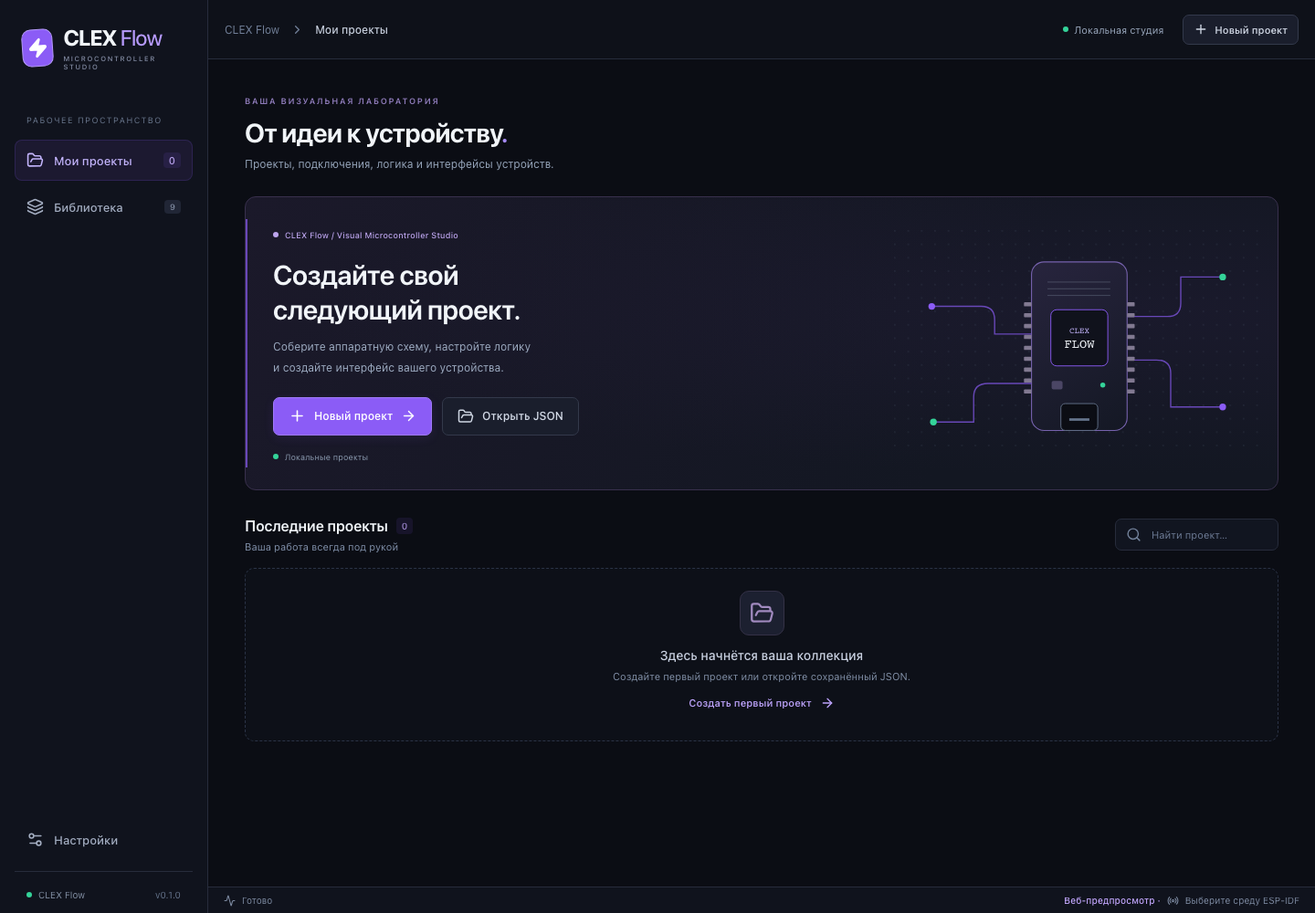
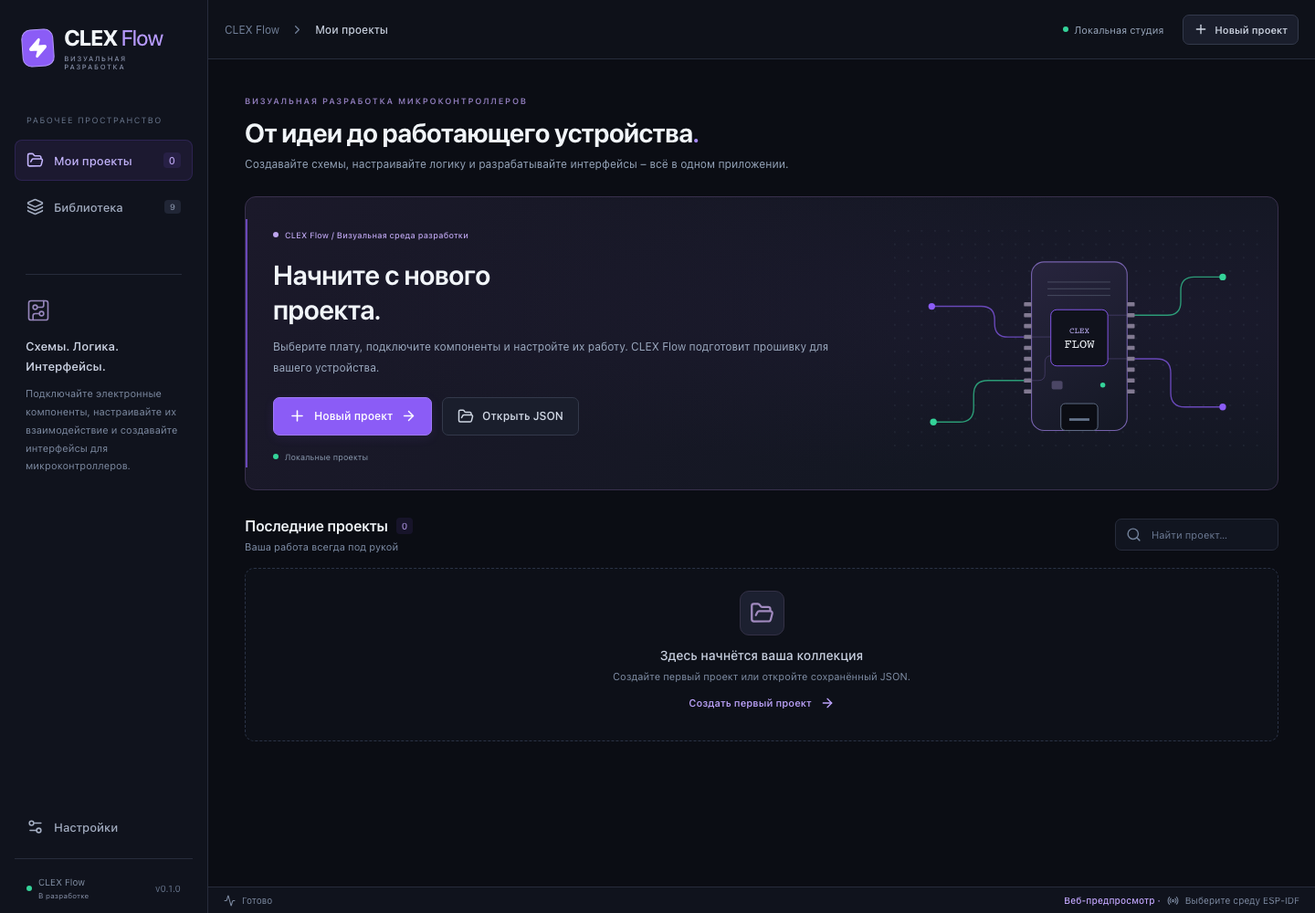
Polish Russian interface and prepare the first prerelease

diff --git a/src/screens/Workspace.jsx b/src/screens/Workspace.jsx
@@ -1,5 +1,5 @@
 import { lazy, Suspense, useCallback, useEffect, useState } from 'react';
-import { CircuitBoard, Layers, Settings2, Terminal, Download, Save, TriangleAlert, CheckCircle2, Cpu, Info } from 'lucide-react';
+import { CircuitBoard, Layers, Settings2, Terminal, Download, TriangleAlert, CheckCircle2, Cpu, Info } from 'lucide-react';
 import ResizeHandle from '../components/ResizeHandle.jsx';
 import Modal from '../components/Modal.jsx';
 import HardwareLibrary from '../assembly/HardwareLibrary.jsx';
@@ -17,7 +17,7 @@ import { addNode, updateNode, connectNodes, removeElements, selectionSnapshot, p
 import { catalog, boards, hardwareModules, logicModules, getBoard } from '../catalog/index.js';
 import { addHardware, connectTerminal, disconnectTerminal, removeWire, removeHardware, selectBoard, validateAssembly } from '../assembly/model.js';
 
-export default function Workspace({ project, setProject, dirty, busy, onSave, onExport, onLogicChange, onInteraction, autoSaveEnabled, autoState, idf, onPreview }) {
+export default function Workspace({ project, setProject, dirty, busy, onExport, onLogicChange, onInteraction, autoSaveEnabled, autoState, idf, onPreview }) {
   const [tab, setTab] = useState('overview');
   const [editingScreen, setEditingScreen] = useState(null);
   const closeScreen = useCallback(() => setEditingScreen(null), []);
@@ -116,11 +116,11 @@ export default function Workspace({ project, setProject, dirty, busy, onSave, on
     <div className="workspace-body" style={{ gridTemplateColumns: tab === 'overview' ? `minmax(250px, 1fr) 5px ${right}px` : `${left}px 5px minmax(250px, 1fr) 5px ${right}px`, gridTemplateRows: `minmax(280px, 1fr) 5px ${bottom}px` }}>
       {tab !== 'overview' && <aside className="workspace-library">{tab === 'logic' ? <LogicLibrary modules={logicModules} busy={busy} onAdd={addLogic} /> : <HardwareLibrary boards={boards} modules={hardwareModules} board={board} busy={busy} onBoard={switchBoard} onAdd={add} />}</aside>}
       {tab !== 'overview' && <ResizeHandle label="Ширина библиотеки" onResize={delta => setLeft(v => Math.max(180, Math.min(300, v + delta)))} />}
-      {tab === 'logic' ? <Suspense fallback={<main className="logic-loading"><Layers size={30} /><span>Открываем редактор логики…</span></main>}><LogicCanvas onOpenScreen={openScreen} project={project} onInteraction={onInteraction} catalog={catalog} history={{ ...history, undo: undoLogic, redo: redoLogic }} selection={logicSelection} setSelection={setLogicSelection} pending={logicPending} onPort={logicPort} onConnect={connectLogic} error={logicError} setError={setLogicError} busy={busy} clipboard={clipboard} onCopy={copyLogic} onPaste={() => pasteLogic(clipboard)} onDuplicate={duplicateLogic} onRemove={removeLogic} issues={graphIssues} /></Suspense> : tab === 'assembly' ? <main className="assembly-region">{board?.pins.length ? <Suspense fallback={<div className="logic-loading"><CircuitBoard size={30} /><span>Открываем монтаж…</span></div>}><AssemblyCanvas onInteraction={onInteraction} key={project.boardId} project={project} board={board} catalog={catalog} selection={selection} setSelection={setSelection} pending={pending} setPending={setPending} onTerminal={terminalClick} onPin={pinClick} onConnect={connect} onError={setError} onTransform={updateAssemblyTransform} busy={busy} /></Suspense> : <div className="assembly-choose-board"><Cpu size={44} /><h2>Выберите конкретную плату</h2><p>Выберите модель платы с описанными контактами в каталоге слева.</p></div>}{error && <div className="wiring-error" role="alert"><TriangleAlert size={15} /><span>{error}</span><button className="text-button" onClick={() => setError('')}>Закрыть</button></div>}<div className={`assembly-validation ${assemblyErrors.length ? 'has-errors' : ''}`}><span>{assemblyErrors.length ? <TriangleAlert size={14} /> : <CheckCircle2 size={14} />}{assemblyErrors.length ? `Ошибок: ${assemblyErrors.length}` : 'Ошибок монтажа нет'}</span><span>Предупреждений: {assemblyWarnings.length}</span><span>{board?.pinoutVerified ? 'Профиль по документации' : 'Ревизия не подтверждена'}</span></div></main> : <main className="project-overview"><div className="overview-topline"><span className="badge purple">ОБЗОР ПРОЕКТА</span><span className={`save-indicator ${dirty ? 'unsaved' : ''}`}><span className="dot" />{dirty ? 'Есть изменения' : 'Сохранён'}</span></div><div className="overview-center"><h1>{project.name}</h1><p>{project.description || 'Плата, подключения, логика и интерфейсы вашего устройства.'}</p><div className="overview-stats"><div><strong>{project.components.length}</strong><span>компонентов</span></div><div><strong>{project.logic.nodes.length}</strong><span>блоков логики</span></div><div><strong>{board?.name || 'Неизвестная плата'}</strong><span>выбранная плата</span></div></div><button className="next-stage open-assembly" onClick={() => setTab('assembly')}><div><strong>Открыть монтаж</strong><p>Плата, физические контакты, подключения и проверка GPIO.</p></div><CircuitBoard size={21} /></button><div className="button-row"><button className="button secondary" onClick={onSave} disabled={busy || !dirty}><Save size={17} />Сохранить</button><button className="text-button" onClick={onExport} disabled={busy}><Download size={17} />Экспорт JSON</button></div></div><div className="canvas-caption">Соберите схему, проверьте исходники и запустите сборку ESP-IDF.</div></main>}
+      {tab === 'logic' ? <Suspense fallback={<main className="logic-loading"><Layers size={30} /><span>Открываем редактор логики…</span></main>}><LogicCanvas onOpenScreen={openScreen} project={project} onInteraction={onInteraction} catalog={catalog} history={{ ...history, undo: undoLogic, redo: redoLogic }} selection={logicSelection} setSelection={setLogicSelection} pending={logicPending} onPort={logicPort} onConnect={connectLogic} error={logicError} setError={setLogicError} busy={busy} clipboard={clipboard} onCopy={copyLogic} onPaste={() => pasteLogic(clipboard)} onDuplicate={duplicateLogic} onRemove={removeLogic} issues={graphIssues} /></Suspense> : tab === 'assembly' ? <main className="assembly-region">{board?.pins.length ? <Suspense fallback={<div className="logic-loading"><CircuitBoard size={30} /><span>Открываем монтаж…</span></div>}><AssemblyCanvas onInteraction={onInteraction} key={project.boardId} project={project} board={board} catalog={catalog} selection={selection} setSelection={setSelection} pending={pending} setPending={setPending} onTerminal={terminalClick} onPin={pinClick} onConnect={connect} onError={setError} onTransform={updateAssemblyTransform} busy={busy} /></Suspense> : <div className="assembly-choose-board"><Cpu size={44} /><h2>Выберите конкретную плату</h2><p>Выберите модель платы с описанными контактами в каталоге слева.</p></div>}{error && <div className="wiring-error" role="alert"><TriangleAlert size={15} /><span>{error}</span><button className="text-button" onClick={() => setError('')}>Закрыть</button></div>}<div className={`assembly-validation ${assemblyErrors.length ? 'has-errors' : ''}`}><span>{assemblyErrors.length ? <TriangleAlert size={14} /> : <CheckCircle2 size={14} />}{assemblyErrors.length ? `Ошибок: ${assemblyErrors.length}` : 'Ошибок монтажа нет'}</span><span>Предупреждений: {assemblyWarnings.length}</span><span>{board?.pinoutVerified ? 'Профиль по документации' : 'Ревизия не подтверждена'}</span></div></main> : <main className="project-overview"><div className="overview-topline"><span className="badge purple">ОБЗОР ПРОЕКТА</span><span className={`save-indicator ${dirty ? 'unsaved' : ''}`}><span className="dot" />{dirty ? 'Есть изменения' : 'Сохранён'}</span></div><div className="overview-center"><h1>{project.name}</h1><p>{project.description || 'Плата, подключения, логика и интерфейсы вашего устройства.'}</p><div className="overview-stats"><div><strong>{project.components.length}</strong><span>компонентов</span></div><div><strong>{project.logic.nodes.length}</strong><span>блоков логики</span></div><div><strong>{board?.name || 'Неизвестная плата'}</strong><span>выбранная плата</span></div></div><button className="next-stage open-assembly" onClick={() => setTab('assembly')}><div><strong>Открыть монтаж</strong><p>Плата, физические контакты, подключения и проверка GPIO.</p></div><CircuitBoard size={21} /></button><div className="button-row"><button className="text-button" onClick={onExport} disabled={busy}><Download size={17} />Экспорт JSON</button></div></div><div className="canvas-caption">Соберите схему, проверьте исходники и запустите сборку ESP-IDF.</div></main>}
       <ResizeHandle label="Ширина свойств" onResize={delta => setRight(v => Math.max(240, Math.min(360, v - delta)))} />
       <aside className="workspace-properties">{tab === 'logic' ? <LogicInspector onOpenScreen={openScreen} project={project} catalog={catalog} selection={logicSelection} busy={busy} onChange={(id, patch, group) => history.change(graph => updateNode(graph, id, patch), { group })} onRemove={removeLogic} onDuplicate={duplicateLogic} issues={graphIssues} /> : tab === 'overview' ? <><div className="panel-label">СВОЙСТВА ПРОЕКТА</div><label className="field">Название<input value={project.name} maxLength={80} onChange={e => change('name', e.target.value)} disabled={busy} /></label><label className="field">Описание<textarea rows={5} value={project.description} maxLength={4000} placeholder="Описание проекта" onChange={e => change('description', e.target.value)} disabled={busy} /></label><div className="property-divider" /><div className="property-pair"><span>Плата</span><strong>{board?.name || project.boardId}</strong></div><div className="property-pair"><span>Целевой ESP-IDF</span><code>{board?.espIdfVersion}</code></div><p className="panel-note"><Info size={15} />{autoSaveEnabled ? 'Весь проект сохраняется через 10 секунд без правок. Можно сохранить сразу: «Сохранить» или ⌘/Ctrl + S.' : 'Автосохранение выключено. Сохраните проект кнопкой «Сохранить» или ⌘/Ctrl + S.'}</p></> : board ? <AssemblyInspector project={project} board={board} catalog={catalog} selection={selection} busy={busy} onConnect={connect} onDisconnect={(id, terminal) => { setProject(current => disconnectTerminal(current, catalog, id, terminal)); setPending(null); setError(''); }} onRemoveWire={id => { setProject(current => removeWire(current, catalog, id)); setSelection({ type: 'board', id: 'board' }); setError(''); }} onRemoveComponent={id => { setProject(current => removeHardware(current, catalog, id)); setSelection({ type: 'board', id: 'board' }); setPending(null); setError(''); }} onComponentChange={(id, patch) => setProject(current => ({ ...current, components: current.components.map(component => component.id === id ? { ...component, ...patch } : component) }))} onTerminalSide={(id, terminal, side) => setProject(current => ({ ...current, assembly: { ...current.assembly, portSides: { ...current.assembly.portSides, [id]: { ...current.assembly.portSides?.[id], [terminal]: side } } } }))} onBoardSetting={(key, value) => { change('boardSettings', { ...project.boardSettings, [key]: value }); setPending(null); }} /> : <p className="inspector-warning">Плата не установлена. Выберите доступную модель в каталоге.</p>}</aside>
       <div className="bottom-resize"><ResizeHandle axis="y" label="Высота журнала" onResize={delta => setBottom(v => Math.max(110, Math.min(280, v - delta)))} /></div>
-      {idf?.job ? <ProcessPanel key={idf.job.id} idf={idf} onPreview={onPreview} issues={issues} onIssue={inspectIssue} /> : <section className="workspace-log"><header><Terminal size={15} /><strong>Проверка проекта</strong><span className={`badge ${errors.length ? 'red' : 'green'}`}>{errors.length ? `${errors.length} ошибок` : 'Ошибок проекта нет'}</span></header><div className="log-row"><span className={`log-level ${dirty ? 'warning' : 'success'}`}>{dirty ? 'EDIT' : 'OK'}</span><span>{dirty ? (autoSaveEnabled ? 'Есть правки. Автосохранение через 10 секунд без изменений; «Сохранить» или ⌘/Ctrl + S сохраняет сразу.' : 'Правки ещё не сохранены. Нажмите «Сохранить» или ⌘/Ctrl + S.') : 'Текущая версия проекта сохранена.'}</span></div>{issues.map((issue, index) => <button key={`${issue.code}-${index}`} className="validation-row" onClick={() => inspectIssue(issue)}><span className={`log-level ${issue.severity === 'error' ? 'error-level' : 'warning'}`}>{issue.severity === 'error' ? 'ERR' : 'WARN'}</span><span>{issue.message}</span></button>)}{idf?.generationError && <div className="log-row"><span className="log-level warning">IDF</span><span>{idf.generationError}</span></div>}{!errors.length && <div className="log-row"><span className="log-level success">OK</span><span>Проверка монтажа и графа пройдена.</span></div>}</section>}
+      {idf?.job ? <ProcessPanel key={idf.job.id} idf={idf} onPreview={onPreview} issues={issues} onIssue={inspectIssue} /> : <section className="workspace-log"><header><Terminal size={15} /><strong>Проверка проекта</strong><span className={`badge ${errors.length ? 'red' : 'green'}`}>{errors.length ? `${errors.length} ошибок` : 'Ошибок проекта нет'}</span></header><div className="log-row"><span className={`log-level ${dirty ? 'warning' : 'success'}`}>{dirty ? 'ПРАВКИ' : 'ОК'}</span><span>{dirty ? (autoSaveEnabled ? 'Есть правки. Автосохранение через 10 секунд без изменений; «Сохранить» или ⌘/Ctrl + S сохраняет сразу.' : 'Правки ещё не сохранены. Нажмите «Сохранить» или ⌘/Ctrl + S.') : 'Текущая версия проекта сохранена.'}</span></div>{issues.map((issue, index) => <button key={`${issue.code}-${index}`} className="validation-row" onClick={() => inspectIssue(issue)}><span className={`log-level ${issue.severity === 'error' ? 'error-level' : 'warning'}`}>{issue.severity === 'error' ? 'ОШ' : 'ВНИМ'}</span><span>{issue.message}</span></button>)}{idf?.generationError && <div className="log-row"><span className="log-level warning">IDF</span><span>{idf.generationError}</span></div>}{!errors.length && <div className="log-row"><span className="log-level success">ОК</span><span>Проверка монтажа и графа пройдена.</span></div>}</section>}
     </div>
     {editingScreen && project.components.some(component => component.id === editingScreen) && <Suspense fallback={null}><ScreenEditor project={project} component={project.components.find(component => component.id === editingScreen)} catalog={catalog} busy={busy} onClose={closeScreen} onSave={(id, screen) => setProject(current => saveScreen(current, id, screen))} /></Suspense>}
     {newBoard && <Modal title="Сменить плату?" onClose={() => setNewBoard(null)} busy={busy}><p className="modal-intro">Соединения и назначения GPIO будут очищены: у новой платы другая распиновка. Компоненты и их параметры останутся в проекте.</p><footer><button className="button secondary" onClick={() => setNewBoard(null)}>Отмена</button><button className="button primary" onClick={() => applyBoard(newBoard)}>Сменить плату</button></footer></Modal>}

diff --git a/src/App.jsx b/src/App.jsx
@@ -1,7 +1,7 @@
 import { useCallback, useEffect, useRef, useState } from 'react';
 import { getCurrentWindow } from '@tauri-apps/api/window';
 import { listen } from '@tauri-apps/api/event';
-import { Activity, ArrowLeft, ChevronRight, Cpu, FlaskConical, FolderOpen, Hammer, Layers, Monitor, Plus, Radio, Save, Settings2, TriangleAlert, X, Zap, FileCode2, RefreshCw, Square } from 'lucide-react';
+import { Activity, ArrowLeft, ChevronRight, CircuitBoard, Cpu, FlaskConical, FolderOpen, Hammer, Layers, Monitor, Plus, Radio, Save, Settings2, TriangleAlert, X, Zap, FileCode2, RefreshCw, Square } from 'lucide-react';
 import { desktop } from './projects/storage.js';
 import { useProjects } from './projects/useProjects.js';
 import Home from './screens/Home.jsx';
@@ -14,6 +14,7 @@ import useIdf from './idf/useIdf.js';
 import FirmwareDialog from './idf/FirmwareDialog.jsx';
 import LibraryDialog from './catalog/LibraryDialog.jsx';
 import { APP_VERSION } from './version.js';
+const operationNames = { build: 'Сборка прошивки', flash: 'Запись прошивки', monitor: 'Монитор порта', sdk_install: 'Установка SDK', sdk_remove: 'Удаление SDK', sdk_select: 'Проверка SDK' };
 
 export default function App() {
   const api = useProjects();
@@ -71,14 +72,14 @@ export default function App() {
   }
 
   return <div className="app-shell">
-    <aside className="app-sidebar"><button className="brand" onClick={home} disabled={locked || api.autoSaving} aria-label="Главный экран CLEX Flow"><span className="brand-mark"><Zap size={23} fill="currentColor" /></span><span>CLEX <b>Flow</b><small>MICROCONTROLLER STUDIO</small></span></button><div className="sidebar-section-label">РАБОЧЕЕ ПРОСТРАНСТВО</div><nav><button className={`nav-item ${screen === 'home' ? 'selected' : ''}`} onClick={home} disabled={locked || api.autoSaving}><FolderOpen size={19} />Мои проекты<span>{api.projects.length}</span></button>{api.active && <button className={`nav-item ${screen === 'workspace' ? 'selected' : ''}`} disabled={locked} onClick={() => setScreen('workspace')}><FlaskConical size={19} />Текущий проект</button>}<button className="nav-item" onClick={() => setModal({ type: 'library' })}><Layers size={19} />Библиотека<span className="nav-soon">{catalog.modules.length}</span></button></nav><div className="sidebar-bottom"><button className={`nav-item ${screen === 'settings' ? 'selected' : ''}`} onClick={() => setScreen('settings')} disabled={locked || api.autoSaving}><Settings2 size={19} />Настройки</button><div className="sidebar-version"><span className="dot green-dot" />CLEX Flow<span>v{APP_VERSION}</span></div></div></aside>
-    <div className="main-shell"><header className="topbar"><div className="breadcrumb"><span>CLEX Flow</span><ChevronRight size={15} /><strong>{screen === 'workspace' ? api.active?.name : screen === 'settings' ? 'Настройки' : 'Мои проекты'}</strong>{api.dirty && <span className="dirty-dot" title="Есть несохранённые изменения" />}</div><div className="topbar-actions">{screen === 'workspace' ? <><span className="toolbar-board"><Cpu size={14} />{getBoard(api.active?.boardId)?.name || 'Плата не установлена'}</span><button className="icon-button" aria-label="Вернуться к проектам" onClick={home} disabled={locked || api.autoSaving}><ArrowLeft size={18} /></button><button className="button compact secondary" onClick={api.save} disabled={api.busy || !api.dirty}><Save size={16} />Сохранить</button><div className="toolbar-divider" /><button className="icon-button" aria-label="Посмотреть исходники прошивки" disabled={!idf.preview} title={idf.generationError || 'Исходники прошивки'} onClick={() => setModal({type:'firmware'})}><FileCode2 size={18}/></button><button className="button compact secondary" disabled={locked || !idf.desktop || !idf.compatible || !idf.fingerprint || !idf.ready} title={idf.generationError || (!idf.desktop ? 'Сборка доступна в десктопном приложении' : !idf.compatible ? 'Откройте инструменты разработки и выберите совместимый ESP-IDF' : 'Собрать прошивку ESP-IDF')} onClick={idf.startBuild}><Hammer size={16}/>Собрать</button><button className="button compact primary" disabled={locked || !idf.fresh || !idf.port} title={!idf.fresh ? 'Нужна успешная сборка текущей схемы' : !idf.port ? 'Подключите плату и выберите порт' : 'Прошить выбранную плату'} onClick={() => {setConfirmed(false);setModal({type:'flash'});}}><Zap size={16}/>Прошить</button><select className="port-select" aria-label="Порт платы" value={idf.port} disabled={idf.busy || !idf.environment} onChange={e=>idf.setPort(e.target.value)}><option value="">{idf.ports.length ? 'Выберите порт' : 'Нет подключённого порта'}</option>{idf.ports.map(port=><option key={port.path} value={port.path}>{port.path.split('/').at(-1)}</option>)}</select><button className="icon-button" aria-label="Обновить порты" disabled={idf.busy || !idf.environment} onClick={idf.refreshPorts}><RefreshCw size={15}/></button><button className="icon-button" disabled={!idf.monitoring && (locked || !idf.port || !idf.ready)} aria-label={idf.monitoring?'Остановить монитор':'Открыть монитор'} title="Serial · 115200 бод" onClick={idf.monitoring?idf.cancel:idf.startMonitor}>{idf.monitoring?<Square size={17}/>:<Monitor size={18}/>}</button></> : <><span className="topbar-local"><span className="dot green-dot" />Локальная студия</span><button className="button compact secondary" onClick={create} disabled={locked || api.loading}><Plus size={16} />Новый проект</button></>}</div></header>
+    <aside className="app-sidebar"><button className="brand" onClick={home} disabled={locked || api.autoSaving} aria-label="Главный экран CLEX Flow"><span className="brand-mark"><Zap size={23} fill="currentColor" /></span><span>CLEX <b>Flow</b><small>ВИЗУАЛЬНАЯ РАЗРАБОТКА</small></span></button><div className="sidebar-section-label">РАБОЧЕЕ ПРОСТРАНСТВО</div><nav><button className={`nav-item ${screen === 'home' ? 'selected' : ''}`} onClick={home} disabled={locked || api.autoSaving}><FolderOpen size={19} />Мои проекты<span>{api.projects.length}</span></button>{api.active && <button className={`nav-item ${screen === 'workspace' ? 'selected' : ''}`} disabled={locked} onClick={() => setScreen('workspace')}><FlaskConical size={19} />Текущий проект</button>}<button className="nav-item" onClick={() => setModal({ type: 'library' })}><Layers size={19} />Библиотека<span className="nav-soon">{catalog.modules.length}</span></button></nav><div className="sidebar-guide"><span className="guide-icon"><CircuitBoard size={28} strokeWidth={1.4} /></span><strong>Схемы. Логика. Интерфейсы.</strong><p>Подключайте электронные компоненты, настраивайте их взаимодействие и создавайте интерфейсы для микроконтроллеров.</p></div><div className="sidebar-bottom"><button className={`nav-item ${screen === 'settings' ? 'selected' : ''}`} onClick={() => setScreen('settings')} disabled={locked || api.autoSaving}><Settings2 size={19} />Настройки</button><div className="sidebar-version"><span className="dot green-dot" /><span>CLEX Flow<small className="development-label">В разработке</small></span><span>v{APP_VERSION}</span></div></div></aside>
+    <div className="main-shell"><header className="topbar"><div className="breadcrumb"><span>CLEX Flow</span><ChevronRight size={15} /><strong>{screen === 'workspace' ? api.active?.name : screen === 'settings' ? 'Настройки' : 'Мои проекты'}</strong>{api.dirty && <span className="dirty-dot" title="Есть несохранённые изменения" />}</div><div className="topbar-actions">{screen === 'workspace' ? <><span className="toolbar-board"><Cpu size={14} />{getBoard(api.active?.boardId)?.name || 'Плата не установлена'}</span><button className="icon-button" aria-label="Вернуться к проектам" onClick={home} disabled={locked || api.autoSaving}><ArrowLeft size={18} /></button><button className="button compact secondary" onClick={api.save} disabled={api.busy || !api.dirty}><Save size={16} />Сохранить</button><div className="toolbar-divider" /><button className="icon-button" aria-label="Посмотреть исходники прошивки" disabled={!idf.preview} title={idf.generationError || 'Исходники прошивки'} onClick={() => setModal({type:'firmware'})}><FileCode2 size={18}/></button><button className="button compact secondary" disabled={locked || !idf.desktop || !idf.compatible || !idf.fingerprint || !idf.ready} title={idf.generationError || (!idf.desktop ? 'Сборка доступна в десктопном приложении' : !idf.compatible ? 'Откройте инструменты разработки и выберите совместимый ESP-IDF' : 'Собрать прошивку ESP-IDF')} onClick={idf.startBuild}><Hammer size={16}/>Собрать</button><button className="button compact primary" disabled={locked || !idf.fresh || !idf.port} title={!idf.fresh ? 'Нужна успешная сборка текущей схемы' : !idf.port ? 'Подключите плату и выберите порт' : 'Прошить выбранную плату'} onClick={() => {setConfirmed(false);setModal({type:'flash'});}}><Zap size={16}/>Прошить</button><select className="port-select" aria-label="Порт платы" value={idf.port} disabled={idf.busy || !idf.environment} onChange={e=>idf.setPort(e.target.value)}><option value="">{idf.ports.length ? 'Выберите порт' : 'Нет подключённого порта'}</option>{idf.ports.map(port=><option key={port.path} value={port.path}>{port.path.split('/').at(-1)}</option>)}</select><button className="icon-button" aria-label="Обновить порты" disabled={idf.busy || !idf.environment} onClick={idf.refreshPorts}><RefreshCw size={15}/></button><button className="icon-button" disabled={!idf.monitoring && (locked || !idf.port || !idf.ready)} aria-label={idf.monitoring?'Остановить монитор':'Открыть монитор'} title="Монитор · 115200 бод" onClick={idf.monitoring?idf.cancel:idf.startMonitor}>{idf.monitoring?<Square size={17}/>:<Monitor size={18}/>}</button></> : <><span className="topbar-local"><span className="dot green-dot" />Локальная студия</span><button className="button compact secondary" onClick={create} disabled={locked || api.loading}><Plus size={16} />Новый проект</button></>}</div></header>
       <div className="content-region">{(api.error || idf.error) && <div className="alert error" role="alert"><TriangleAlert size={18} /><span>{api.error || idf.error}</span><button className="icon-button" aria-label="Скрыть ошибку" onClick={() => {api.setError('');idf.setError('');}}><X size={16} /></button></div>}{api.damaged.length > 0 && <details className="alert damaged"><summary>Не удалось открыть файлов: {api.damaged.length}. Исходные данные сохранены.</summary>{api.damaged.map(message => <p key={message}>{message}</p>)}</details>}
         {screen === 'home' && <Home projects={api.projects} busy={locked} loading={api.loading} onCreate={create} onImport={importFile} onOpen={project => { api.setActive(project); setScreen('workspace'); }} onRename={project => setModal({ type: 'rename', project })} onDelete={project => setModal({ type: 'delete', project })} />}
         {screen === 'workspace' && api.active && desktop && !idf.checking && !idf.compatible && <div className="toolchain-needed"><Cpu size={17}/><span>Для {getBoard(api.active.boardId)?.name || 'платы'} нужны {idf.requirement?.name} {idf.requirement?.version} и компилятор {idf.requirement?.compiler}.</span><button className="text-button" disabled={locked} onClick={()=>navigate(()=>setScreen('settings'))}>Настроить инструменты</button></div>}
-        {screen === 'workspace' && api.active && <Workspace key={api.active.id} project={api.active} setProject={api.setActive} dirty={api.dirty} busy={locked} idf={idf} onPreview={() => setModal({type:'firmware'})} onSave={api.save} onExport={api.exportFile} onLogicChange={api.updateLogic} onInteraction={api.setInteracting} autoSaveEnabled={api.autoSaveEnabled} autoState={api.autoState} />}
+        {screen === 'workspace' && api.active && <Workspace key={api.active.id} project={api.active} setProject={api.setActive} dirty={api.dirty} busy={locked} idf={idf} onPreview={() => setModal({type:'firmware'})} onExport={api.exportFile} onLogicChange={api.updateLogic} onInteraction={api.setInteracting} autoSaveEnabled={api.autoSaveEnabled} autoState={api.autoState} />}
         {screen === 'settings' && <Settings path={api.path} idf={idf} autoSaveEnabled={api.autoSaveEnabled} onAutoSaveChange={api.setAutoSaveEnabled} saving={api.autoSaving} />}
-      </div><footer className="statusbar"><span><Activity size={13} />{idf.busy ? (idf.job ? 'Операция ESP-IDF · ' + idf.job.operation : 'Проверяем ESP-IDF…') : api.busy ? 'Выполняем операцию…' : (api.autoSaving ? 'Автосохранение проекта…' : api.notice) || 'Готово'}</span><span>{!desktop && <b>Веб-предпросмотр · </b>}<Radio size={13} />{idf.checking ? 'Проверяем ESP-IDF…' : idf.environment ? `ESP-IDF ${idf.environment.sdkVersion} · ${idf.compatible ? 'готова' : 'несовместима с генератором'}` : 'Выберите среду ESP-IDF'}</span></footer>
+      </div><footer className="statusbar"><span><Activity size={13} />{idf.busy ? (idf.job ? operationNames[idf.job.operation] || 'Работа с инструментами' : 'Проверяем ESP-IDF…') : api.busy ? 'Выполняем операцию…' : (api.autoSaving ? 'Автосохранение проекта…' : api.notice) || 'Готово'}</span><span>{!desktop && <b>Веб-предпросмотр · </b>}<Radio size={13} />{idf.checking ? 'Проверяем ESP-IDF…' : idf.environment ? `ESP-IDF ${idf.environment.sdkVersion} · ${idf.compatible ? 'готова' : 'несовместима с генератором'}` : 'Выберите среду ESP-IDF'}</span></footer>
     </div>
     {idf.busy && idf.job && screen !== 'workspace' && <button className="global-stop button secondary" onClick={idf.cancel} disabled={idf.job.operation==='sdk_remove'}><Square size={14}/>Остановить ESP-IDF</button>}
     {modal?.type === 'firmware' && idf.preview && <FirmwareDialog bundle={idf.preview} build={idf.fresh?idf.build:null} onClose={closeModal}/>}

diff --git a/src/idf/SdkManager.jsx b/src/idf/SdkManager.jsx
@@ -29,7 +29,7 @@ export default function SdkManager({idf}) {
   {!snapshot?.installations.length?<p className="sdk-empty">SDK не обнаружены. Можно подключить существующую установку или установить инструменты через EIM.</p>:<div className="sdk-list">{snapshot.installations.map(sdk=><article className={`sdk-row ${active===sdk.id?'active':''}`} key={sdk.id}><header><strong>ESP-IDF {sdk.version}</strong><span className={`badge ${sdk.state==='ready'?'green':''}`}>{SDK_STATES[sdk.state] || sdk.state}</span>{active===sdk.id&&<span className="sdk-active-label">Выбрана для ESP32-S3</span>}</header><code>{sdk.root}</code><small>{sdk.managed?'Управляется CLEX Flow':'Внешняя установка · удаление недоступно'}</small>{sdk.diagnostic&&sdk.state!=='ready'&&<p className="sdk-diagnostic">{sdk.diagnostic}</p>}<div className="sdk-row-actions"><button className="text-button" disabled={unavailable||sdk.state==='missing'||sdk.state==='installing'} onClick={()=>idf.selectSdk(sdk.id)}><CheckCircle2 size={14}/>Проверить и выбрать</button>{sdk.managed&&sdk.state!=='ready'&&<button className="text-button" disabled={unavailable} onClick={()=>prepare(sdk.version)}><RefreshCw size={14}/>Повторить установку</button>}{sdk.managed&&<button className="text-button sdk-delete" disabled={unavailable} onClick={()=>{setConfirmed(false);setModal({type:'remove',sdk});}}><Trash2 size={14}/>Удалить</button>}</div></article>)}</div>}
   <h3 className="sdk-subheading">Каталог ESP-IDF</h3><div className="sdk-catalog"><select aria-label="Версия SDK для установки" value={version} disabled={unavailable} onChange={event=>setVersion(event.target.value)}>{(snapshot?.available || [{version:'5.4.4',supported:true}]).map(item=><option value={item.version} key={item.version}>{item.version}{item.supported?' · текущий генератор':' · другие версии SDK'}</option>)}</select><button className="button secondary" disabled={unavailable || snapshot?.installations.some(sdk=>sdk.version===version && sdk.state==='ready')} onClick={()=>prepare(version)}><Download size={14}/>Установить версию</button></div>{snapshot?.catalogError&&<p className="sdk-diagnostic">{snapshot.catalogError} Используется сохранённый каталог.</p>}<p className="fine-print">Несколько версий хранятся отдельно. Установка другой версии SDK не расширяет автоматически совместимость генератора. Arduino, ESP8266, STM32, RP2040 и RP2350 пока не поддерживаются этим установщиком.</p>
   <details className="sdk-external"><summary>Указать существующую ESP-IDF</summary><label className="field">Каталог ESP-IDF<input value={root} disabled={idf.busy} onChange={event=>setRoot(event.target.value)} placeholder="Корень установки с tools/idf.py"/></label><label className="field">Python окружения ESP-IDF<input value={python} disabled={idf.busy} onChange={event=>setPython(event.target.value)} placeholder="Необязательно: путь к существующему Python"/></label><div className="button-row"><button className="button primary" disabled={!idf.desktop||idf.busy} onClick={()=>verify(root||null,python||null)}><CheckCircle2 size={15}/>Проверить пути</button><button className="button secondary" disabled={!idf.desktop||idf.busy} onClick={()=>verify('','')}><RefreshCw size={15}/>Найти автоматически</button></div></details>
-  <label className="field console-mode">Консоль прошивки<select value={idf.consoleMode} disabled={idf.busy} onChange={event=>idf.setConsole(event.target.value)}><option value="usb">USB Serial/JTAG</option><option value="uart">UART0 · USB-UART bridge</option></select></label>
+  <label className="field console-mode">Консоль прошивки<select value={idf.consoleMode} disabled={idf.busy} onChange={event=>idf.setConsole(event.target.value)}><option value="usb">USB Serial/JTAG</option><option value="uart">UART0 · USB-UART мост</option></select></label>
   {idf.environment&&<div className="tool-status"><span><CheckCircle2 size={14}/>{idf.environment.version}</span><code>{idf.environment.compilerVersion}</code><code>{idf.environment.cmakeVersion}</code><code>Ninja {idf.environment.ninjaVersion}</code><small>Python: {idf.environment.python}</small></div>}
   {sdkJob&&<div className="sdk-operation" role="log" aria-label="Журнал SDK Manager"><header><strong>{idf.busy?(stage || 'Выполняем операцию…'):{success:'Операция завершена',failed:'Ошибка',cancelled:'Остановлено'}[idf.job.status]}</strong>{idf.busy&&idf.job.operation!=='sdk_remove'&&<button className="text-button" onClick={idf.cancel}><Square size={13}/>Остановить</button>}</header>{installing&&idf.busy&&<><progress max={100} {...(percent!==null?{value:percent}:{})}/><small>{percent!==null?`EIM: ${percent}% · ${bytes(progress.downloaded)} из ${bytes(progress.total)}`:'SDK и компиляторы: этапы и загрузки отображаются в выводе EIM'}</small></>}<pre>{events.filter(event=>event.status!=='progress').map(event=>event.text+(event.stream==='system'?'\n':'')).join('')}</pre></div>}
   {idf.error&&<p className="inspector-warning"><AlertCircle size={15}/>{idf.error}</p>}

diff --git a/src/idf/ProcessPanel.jsx b/src/idf/ProcessPanel.jsx
@@ -51,7 +51,7 @@ export default function ProcessPanel({ idf, onPreview, issues, onIssue }) {
   return <section className="process-panel">
     <header><div>
       <button className={tab === 'build' ? 'selected' : ''} onClick={() => changeTab('build')}><Hammer size={14} />Сборка и прошивка</button>
-      <button className={tab === 'monitor' ? 'selected' : ''} onClick={() => changeTab('monitor')}><Radio size={14} />Serial</button>
+      <button className={tab === 'monitor' ? 'selected' : ''} onClick={() => changeTab('monitor')}><Radio size={14} />Монитор</button>
       <button className={tab === 'check' ? 'selected' : ''} onClick={() => changeTab('check')}>Проверка{errors.length ? ` · ${errors.length}` : ''}</button>
     </div>
       {!following && tab !== 'check' && <button className="icon-button" onClick={followEnd} aria-label="К последним сообщениям" title="К последним сообщениям"><ArrowDownToLine size={16} /></button>}
@@ -60,10 +60,10 @@ export default function ProcessPanel({ idf, onPreview, issues, onIssue }) {
       <button className="icon-button" onClick={onPreview} disabled={!idf.preview} aria-label="Посмотреть исходники прошивки"><FileCode2 size={15} /></button>
     </header>
     <div className="process-log" ref={log} onScroll={onScroll} onWheel={onWheel} role="log" aria-label={tab === 'monitor' ? 'Последовательный монитор' : 'Журнал компилятора'}>
-      {tab === 'check' ? <div><p className="generation-state">{idf.generationError || 'Исходники готовы к сборке.'}</p>{issues.map((issue, index) => <button className="validation-row" key={`${issue.code}-${index}`} onClick={() => onIssue(issue)}><span className={`log-level ${issue.severity === 'error' ? 'error-level' : 'warning'}`}>{issue.severity === 'error' ? 'ERR' : 'WARN'}</span><span>{issue.message}</span></button>)}</div>
+      {tab === 'check' ? <div><p className="generation-state">{idf.generationError || 'Исходники готовы к сборке.'}</p>{issues.map((issue, index) => <button className="validation-row" key={`${issue.code}-${index}`} onClick={() => onIssue(issue)}><span className={`log-level ${issue.severity === 'error' ? 'error-level' : 'warning'}`}>{issue.severity === 'error' ? 'ОШ' : 'ВНИМ'}</span><span>{issue.message}</span></button>)}</div>
         : !events.length ? <div className="process-empty"><Terminal size={18} /><p>{tab === 'monitor' ? 'Выберите порт и откройте монитор.' : 'Нажмите «Собрать», чтобы открыть журнал компиляции.'}</p></div>
           : tab === 'monitor' ? <pre className="serial-output">{strip(events.map(event => event.stream === 'stdout' ? event.text : `\n[${event.status}] ${event.text}\n`).join(''))}</pre>
-            : events.map(event => <div key={event.sequence} className={`process-line ${event.status === 'failed' ? 'failed' : ''}`}><span className="process-stream">{event.status === 'success' ? <CheckCircle2 size={11} /> : event.status === 'failed' ? <TriangleAlert size={11} /> : event.stream === 'stderr' ? 'ERR' : event.stream === 'system' ? 'SYS' : 'OUT'}</span><pre>{strip(event.text)}</pre></div>)}
+            : events.map(event => <div key={event.sequence} className={`process-line ${event.status === 'failed' ? 'failed' : ''}`}><span className="process-stream">{event.status === 'success' ? <CheckCircle2 size={11} /> : event.status === 'failed' ? <TriangleAlert size={11} /> : event.stream === 'stderr' ? 'ОШ' : event.stream === 'system' ? 'СИСТ' : 'ВЫВ'}</span><pre>{strip(event.text)}</pre></div>)}
     </div>
     {idf.build && <footer><span>{idf.fresh ? 'Прошивка соответствует текущей схеме' : 'Схема/среда изменена – нужна новая сборка'}</span><code title={idf.build.binary}>{idf.build.binary}</code></footer>}
   </section>;

diff --git a/src/screens/Home.jsx b/src/screens/Home.jsx
@@ -9,9 +9,9 @@ export default function Home({ projects, loading, busy, onCreate, onImport, onOp
   const [query, setQuery] = useState('');
   const visible = projects.filter(p => p.name.toLocaleLowerCase('ru').includes(query.toLocaleLowerCase('ru')));
   return <div className="home-scroll">
-    <div className="page-heading"><div><span className="eyebrow">ВАША ВИЗУАЛЬНАЯ ЛАБОРАТОРИЯ</span><h1>От идеи к устройству<span>.</span></h1><p>Проекты, подключения, логика и интерфейсы устройств.</p></div></div>
+    <div className="page-heading"><div><span className="eyebrow">ВИЗУАЛЬНАЯ РАЗРАБОТКА МИКРОКОНТРОЛЛЕРОВ</span><h1>От идеи до работающего устройства<span>.</span></h1><p>Создавайте схемы, настраивайте логику и разрабатывайте интерфейсы – всё в одном приложении.</p></div></div>
     <section className="hero">
-      <div className="hero-content"><span className="badge purple"><span className="dot" />CLEX Flow / Visual Microcontroller Studio</span><h2>Создайте свой<br />следующий проект.</h2><p>Соберите аппаратную схему, настройте логику<br />и создайте интерфейс вашего устройства.</p><div className="button-row"><button className="button primary" onClick={onCreate} disabled={busy || loading}><Plus size={19} />Новый проект<ArrowRight size={17} /></button><button className="button secondary" onClick={onImport} disabled={busy || loading}><FolderOpen size={18} />Открыть JSON</button></div><div className="hero-note"><span className="dot green-dot" />Локальные проекты</div></div>
+      <div className="hero-content"><span className="badge purple"><span className="dot" />CLEX Flow / Визуальная среда разработки</span><h2>Начните с нового<br />проекта.</h2><p>Выберите плату, подключите компоненты и настройте их работу. CLEX Flow подготовит прошивку для вашего устройства.</p><div className="button-row"><button className="button primary" onClick={onCreate} disabled={busy || loading}><Plus size={19} />Новый проект<ArrowRight size={17} /></button><button className="button secondary" onClick={onImport} disabled={busy || loading}><FolderOpen size={18} />Открыть JSON</button></div><div className="hero-note"><span className="dot green-dot" />Локальные проекты</div></div>
       <div className="hero-art"><Blueprint /></div>
     </section>
     <section className="projects-section"><div className="section-heading"><div><h2>Последние проекты <span className="count">{projects.length}</span></h2><p>Ваша работа всегда под рукой</p></div><label className="search"><Search size={17} /><input aria-label="Поиск проектов" placeholder="Найти проект…" value={query} onChange={e => setQuery(e.target.value)} /></label></div>

diff --git a/src/components/Blueprint.jsx b/src/components/Blueprint.jsx
@@ -1,16 +1,22 @@
+const pinY = index => 88.5 + index * 13;
+const wires = [
+  { color: '#8b5cf6', x: 45, y: 91, path: `M45 91H104Q120 91 120 107V${pinY(3) - 16}Q120 ${pinY(3)} 136 ${pinY(3)}H155` },
+  { color: '#34d399', x: 392, y: 56, path: `M287 ${pinY(1)}H326Q342 ${pinY(1)} 342 ${pinY(1) - 16}V72Q342 56 358 56H392` },
+  { color: '#8b5cf6', x: 392, y: 211, path: `M287 ${pinY(5)}H313Q330 ${pinY(5)} 330 ${pinY(5) + 17}V194Q330 211 347 211H392` },
+  { color: '#34d399', x: 47, y: 229, path: `M155 ${pinY(7)}H112Q95 ${pinY(7)} 95 ${pinY(7) + 17}V212Q95 229 78 229H47` },
+];
 export default function Blueprint() {
   return <svg className="blueprint" viewBox="0 0 440 270" fill="none" aria-hidden="true">
     <defs><pattern id="dots" width="16" height="16" patternUnits="userSpaceOnUse"><circle cx="1" cy="1" r=".7" fill="#64748b" opacity=".35" /></pattern><linearGradient id="board" x1="170" y1="40" x2="290" y2="230" gradientUnits="userSpaceOnUse"><stop stopColor="#27243d" /><stop offset="1" stopColor="#141824" /></linearGradient></defs>
     <rect width="440" height="270" fill="url(#dots)" />
-    <path d="M45 91H104Q120 91 120 107V124H165M275 155H313Q330 155 330 171V211H392M278 103H326Q342 103 342 87V56H392M165 183H112Q95 183 95 199V229H47" stroke="#8b5cf6" strokeWidth="1.5" opacity=".7" />
-    <circle cx="45" cy="91" r="4" fill="#8b5cf6" /><circle cx="392" cy="56" r="4" fill="#34d399" /><circle cx="392" cy="211" r="4" fill="#8b5cf6" /><circle cx="47" cy="229" r="4" fill="#34d399" />
+    {wires.map((wire, index) => <g key={index}><path d={wire.path} stroke={wire.color} strokeWidth="1.5" strokeLinecap="round" strokeLinejoin="round" opacity=".7" /><circle cx={wire.x} cy={wire.y} r="4" fill={wire.color} /></g>)}
     <rect x="164" y="38" width="114" height="201" rx="15" fill="url(#board)" stroke="#7662ad" strokeWidth="1.2" />
+    <path d={`M164 ${pinY(3)}H187M278 ${pinY(1)}H255M278 ${pinY(5)}H255M164 ${pinY(7)}H172Q180 ${pinY(7)} 180 ${pinY(7) - 8}V158Q180 150 187 150`} stroke="#7662ad" strokeWidth="1" opacity=".4" />
     <path d="M183 62h75m-75 8h75m-75 8h75" stroke="#94a3b8" opacity=".35" />
     <rect x="187" y="95" width="68" height="67" rx="7" fill="#10121c" stroke="#8b5cf6" />
     <text x="221" y="123" textAnchor="middle" fill="#c4b5fd" fontSize="10" fontFamily="monospace">CLEX</text><text x="221" y="141" textAnchor="middle" fill="#f1f5f9" fontSize="15" fontFamily="monospace">FLOW</text>
     <rect x="199" y="207" width="44" height="32" rx="5" fill="#0b0d14" stroke="#64748b" /><path d="M209 226h24" stroke="#64748b" strokeWidth="3" />
     <circle cx="249" cy="185" r="3" fill="#34d399" /><rect x="188" y="180" width="13" height="10" rx="2" fill="#4b4665" />
-    {[0,1,2,3,4,5,6,7,8].map(i => <g key={i}><rect x="155" y={86 + i * 13} width="9" height="5" rx="1" fill="#817991" /><rect x="278" y={86 + i * 13} width="9" height="5" rx="1" fill="#817991" /></g>)}
-
+    {Array.from({ length: 9 }, (_, index) => <g key={index}><rect x="155" y={pinY(index) - 2.5} width="9" height="5" rx="1" fill="#817991" /><rect x="278" y={pinY(index) - 2.5} width="9" height="5" rx="1" fill="#817991" /></g>)}
   </svg>;
 }

diff --git a/src/styles.css b/src/styles.css
@@ -35,3 +35,8 @@ select:not([multiple]){-webkit-appearance:none;appearance:none;min-height:38px;p
 
 .library-modal{width:min(950px,calc(100vw - 48px));max-height:calc(100vh - 48px);overflow:auto}.library-catalog-tabs{display:flex;gap:8px;flex-wrap:wrap;margin-bottom:16px}.library-catalog-tabs button{background:#171e2c;border:1px solid #334157;border-radius:6px;color:#9fb0c7;padding:10px 12px;font-size:11px}.library-catalog-tabs button[aria-selected=true]{border-color:#8b5cf6;background:#8b5cf619;color:#c4b5fd}.library-catalog-search{max-width:none;margin-bottom:18px}.library-catalog-search input{font-size:12px}.library-catalog-results{display:grid;grid-template-columns:repeat(2,minmax(0,1fr));gap:12px;max-height:52vh;overflow:auto;padding:2px}.library-catalog-card{padding:16px;background:#121a27;border:1px solid #2c384d;border-radius:8px;min-width:0}.library-catalog-card header{display:flex;align-items:center;gap:12px}.library-catalog-card h3{font-size:13px;font-weight:550;color:#d9e2f0}.library-catalog-card small{display:block;font-size:10px;color:#8497b3;margin-top:5px}.library-catalog-card p{color:#9cacc2;font-size:11px;line-height:1.8;margin:13px 0}.library-catalog-details{display:flex;flex-wrap:wrap;gap:5px}.library-catalog-details span{font-size:9px;padding:4px 6px;background:#1a2638;border-radius:4px;color:#8fb1cf}.library-catalog-card footer{font-size:9px;color:#748aa6;margin-top:14px}.library-catalog-empty{grid-column:1/-1;color:#91a2ba;padding:24px;font-size:12px}
 .library-catalog-card>header{justify-content:flex-start}.library-catalog-card>footer{display:block;border:0;padding:0;text-align:left}
+
+.library-catalog-details{column-gap:6px;row-gap:8px;align-items:flex-start}.library-catalog-details+.library-catalog-details{margin-top:8px}.library-catalog-details span{line-height:1.5}
+
+body{cursor:default}input,textarea,[contenteditable]:not([contenteditable=false]){cursor:text}.sidebar-version .development-label{display:block;font-size:8px;color:#8790a8;margin-top:4px}
+input:is([type=checkbox],[type=radio],[type=color],[type=range],[type=button],[type=submit],[type=reset],[type=date],[type=time],[type=datetime-local]){cursor:auto}

diff --git a/CHANGELOG.md b/CHANGELOG.md
@@ -1,7 +1,9 @@
 # Changelog
 
-## 0.1.0 – Work in Progress
+## 0.1.0 – В разработке
 
+- Уточнены тексты главного экрана, возвращён информационный блок, исправлены соединения иллюстрации, отступы контактов библиотеки и курсоры текста; сохранение проекта доступно в верхней панели.
+- Русскоязычные подписи и состояние «В разработке».
 - Общая оболочка без закреплённого MCU и этапов разработки: одна версия приложения, пункт «Текущий проект», обзор без дублирования каталога монтажа.
 - Библиотека с реальными карточками компонентов, логических блоков и плат, разделами и поиском.
 - Прокрутка журнала сборки/Serial следует за выводом и изменением размера; ручная прокрутка сохраняет место чтения, кнопка возвращает к последним сообщениям.

diff --git a/README.md b/README.md
@@ -3,8 +3,8 @@
 </p>
 
 <h1 align="center">CLEX Flow</h1>
-<p align="center">Visual Microcontroller Studio</p>
-<p align="center"><strong>0.1.0 · Work in Progress · macOS Apple Silicon · MIT</strong></p>
+<p align="center">Визуальная среда разработки для микроконтроллеров</p>
+<p align="center"><strong>0.1.0 · В разработке · macOS Apple Silicon · MIT</strong></p>
 
 Визуальная среда разработки для микроконтроллеров и одноплатных компьютеров. Плата, аппаратные подключения и блоки логики объединяются в одном проекте. Проекты, инструменты и данные остаются на вашем компьютере.
 
